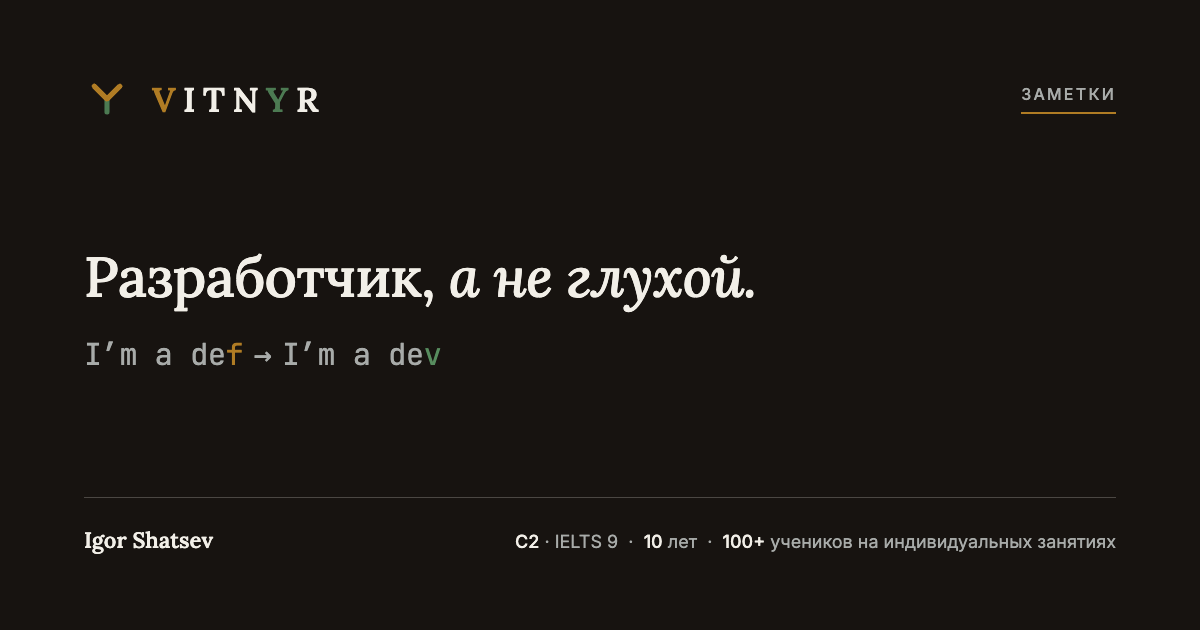
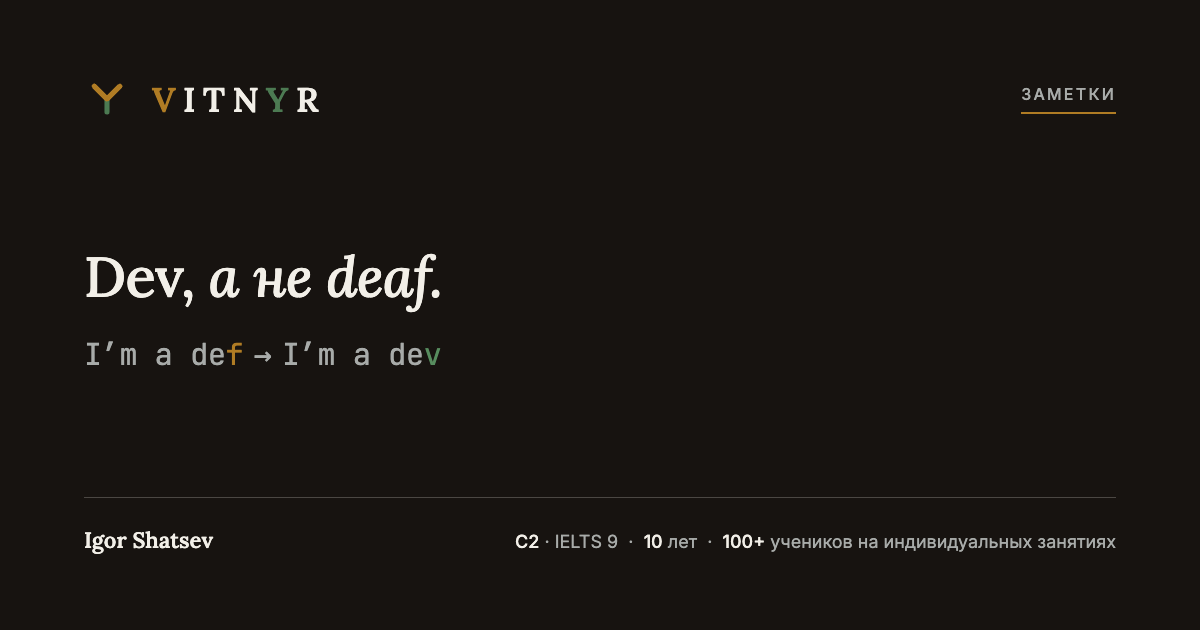
Notes: dev / deaf, rebuilt after the cold review and the copy pass
Devoices, not mutes; RU h1 «Dev, а не deaf.»; the post's «на встрече»
kept; English loans (баг, лог, блог) in the pull rows; no schwa-inviting
'buzz'; NQ19 for Igor.

Changed region(s): [[0.0617, 0.3921, 0.6475, 0.5127]]

diff --git a/notes/dev-deaf/index.html b/notes/dev-deaf/index.html
@@ -7,11 +7,11 @@
      GENERATED by tools/notes/build.py from tools/notes/*.py and the frame of
      english/index.html. Edit those and re-run; edits here are overwritten. -->
 <title data-head-ru="Звонкие согласные на конце слова в английском: dev или deaf — Igor Shatsev">“I’m a dev” or “I’m deaf”? Voiced endings in English — Igor Shatsev</title>
-<meta name="description" content="Russian speakers mute the last sound of a word, so “I’m a dev” comes out as “I’m deaf”. Seven pairs (bag and back, prize and price), why it happens, and sentences to say out loud." data-head-ru="Почему «I’m a dev» звучит как «I’m deaf»: русское оглушение согласных на конце слова. Семь пар (bag и back, prize и price), откуда привычка и фразы, чтобы потренироваться вслух.">
+<meta name="description" content="Russian speakers devoice the last consonant of a word, so “I’m a dev” comes out as “I’m deaf”. Seven pairs (bag and back, prize and price), why it happens, and sentences to say out loud." data-head-ru="Почему «I’m a dev» звучит как «I’m deaf»: русское оглушение согласных на конце слова. Семь пар (bag и back, prize и price), откуда берётся привычка, и фразы для тренировки вслух.">
 <meta name="theme-color" content="#EFEBE3">
 
 <meta property="og:title" content="I’m a dev, not deaf: voiced endings in English — Igor Shatsev">
-<meta property="og:description" content="Russian mutes the last sound of a word; English keeps it. Seven pairs and sentences to say out loud.">
+<meta property="og:description" content="Russian devoices the last consonant of a word; English doesn’t. Seven pairs and sentences to say out loud.">
 <meta property="og:locale" content="en_US">
 <meta property="og:locale:alternate" content="ru_RU">
 <meta property="og:type" content="article">
@@ -23,7 +23,7 @@
 <meta property="og:image:alt" content="I’m a dev, not deaf. A note by Igor Shatsev on voiced endings.">
 <meta name="twitter:card" content="summary_large_image">
 <meta name="twitter:title" content="I’m a dev, not deaf: voiced endings in English — Igor Shatsev">
-<meta name="twitter:description" content="Russian mutes the last sound of a word; English keeps it. Seven pairs and sentences to say out loud.">
+<meta name="twitter:description" content="Russian devoices the last consonant of a word; English doesn’t. Seven pairs and sentences to say out loud.">
 <meta name="twitter:image" content="https://vitnyrcoach.com/assets/share/og-note-dev-deaf.png">
 
 <link rel="alternate" hreflang="en" href="https://vitnyrcoach.com/notes/dev-deaf/">
@@ -40,7 +40,7 @@
       "url": "https://vitnyrcoach.com/notes/dev-deaf/",
       "mainEntityOfPage": "https://vitnyrcoach.com/notes/dev-deaf/",
       "headline": "I’m a dev, not deaf: voiced endings in English",
-      "description": "Russian mutes the last sound of a word; English keeps it. Seven pairs and sentences to say out loud.",
+      "description": "Russian devoices the last consonant of a word; English doesn’t. Seven pairs and sentences to say out loud.",
       "inLanguage": ["en", "ru"],
       "datePublished": "2026-11-24",
       "author": { "@id": "https://vitnyrcoach.com/#igor" },
@@ -182,20 +182,20 @@
       <span class="line"><span class="line__inner"><em>not deaf.</em></span></span>
     </span>
     <span data-l="ru">
-      <span class="line"><span class="line__inner">Разработчик,</span></span>
-      <span class="line"><span class="line__inner"><em>а не глухой.</em></span></span>
+      <span class="line"><span class="line__inner">Dev,</span></span>
+      <span class="line"><span class="line__inner"><em>а не deaf.</em></span></span>
     </span>
   </h1>
   <div class="hero__foot page-hero__foot">
     <div class="page-hero__text">
-      <p class="stand reveal" data-l="en">A client of mine is a developer. When he says “I’m a dev”, it comes out as “I’m deaf”. If native speakers smile on a call, it isn’t always because they’re friendly: maybe you just made them laugh. <strong class="mark">Watch the voiced and voiceless sounds at the ends of words.</strong></p>
-      <p class="stand reveal" data-l="ru">Мой клиент — разработчик. Когда он говорит «I’m a dev», слышится «I’m deaf». Если носители улыбаются на созвоне, это не всегда потому, что они очень дружелюбные: может, вы их просто рассмешили. <strong class="mark">Аккуратнее со звонкими и глухими звуками на конце слов.</strong></p>
+      <p class="stand reveal" data-l="en">A client of mine is a developer. When he says “I’m a dev”, it comes out as “I’m deaf”. If native speakers smile in a meeting, it isn’t always because they’re such friendly people: maybe you just made them laugh. <strong class="mark">Watch the voiced and voiceless sounds at the ends of words.</strong></p>
+      <p class="stand reveal" data-l="ru">Мой клиент — разработчик. Когда он говорит «I’m a dev», слышится «I’m deaf». Если носители улыбаются на встрече, это не всегда потому, что они очень дружелюбные ребята: может, вы их просто рассмешили. <strong class="mark">Аккуратнее со звонкими и глухими звуками на конце слов.</strong></p>
     </div>
     <figure class="note-fig ladder reveal" aria-labelledby="fig-dev-deaf">
       <div class="ladder__row"><span class="ladder__s" lang="en">I’m a de<del class="mark--specimen">f</del>.</span><span class="weights__role" data-en="you say" data-ru="вы говорите">you say</span></div>
       <div class="ladder__row"><span class="ladder__s" lang="ru">Я <em>глухой</em>.</span><span class="weights__role" data-en="they hear" data-ru="носитель слышит">they hear</span></div>
       <div class="ladder__row"><span class="ladder__s" lang="en">I’m a de<ins class="mark--target">v</ins>.</span><span class="weights__role" data-en="say" data-ru="скажите">say</span></div>
-      <figcaption id="fig-dev-deaf"><span data-l="en">Fig. 1. Russian mutes the last sound of a word. English keeps it, and stretches the vowel before it.</span><span data-l="ru">Рис. 1. Русский оглушает последний звук слова. Английский — нет, и гласная перед ним тянется.</span></figcaption>
+      <figcaption id="fig-dev-deaf"><span data-l="en">Fig. 1. One sound, and it’s a different conversation.</span><span data-l="ru">Рис. 1. Один звук — и совсем другой созвон.</span></figcaption>
     </figure>
     <div class="note-meta">
       <p class="note-byline reveal">
@@ -219,8 +219,8 @@
 <section class="sec" id="words">
   <p class="label reveal"><span class="num">01</span><span data-en="The fix" data-ru="Как правильно">The fix</span></p>
   <div class="sec__head">
-    <h2 class="reveal" data-l="en">A voiced ending changes the word.</h2>
-    <h2 class="reveal" data-l="ru">Звонкий конец меняет слово.</h2>
+    <h2 class="reveal" data-l="en">The vowel gives it away.</h2>
+    <h2 class="reveal" data-l="ru">Выдаёт гласная.</h2>
     <div class="sec__lede">
       <p class="reveal" data-l="en">The secret isn’t the last letter. <strong class="mark">Before a voiced consonant the vowel stretches</strong>, and the listener hears it before the <span class="w">v</span> itself.</p>
       <p class="reveal" data-l="ru">Секрет не в последней букве. <strong class="mark">Перед звонким согласным гласная тянется</strong>, и это слышно раньше, чем сам <span class="w">v</span>.</p>
@@ -228,7 +228,7 @@
   </div>
   <table class="register register--pairs reveal">
     <caption class="vh"><span data-l="en">Seven pairs: a voiced ending and a voiceless one</span><span data-l="ru">Семь пар: звонкий конец и глухой</span></caption>
-    <thead><tr><th scope="col"><span class="vh" data-en="Number" data-ru="Номер">Number</span></th><th scope="col" data-en="Voiced: a longer vowel" data-ru="Звонкий: гласная длиннее">Voiced: a longer vowel</th><th scope="col" data-en="Voiceless: a shorter vowel" data-ru="Глухой: гласная короче">Voiceless: a shorter vowel</th></tr></thead>
+    <thead><tr><th scope="col"><span class="vh" data-en="Number" data-ru="Номер">Number</span></th><th scope="col" data-en="Voiced (v d g z)" data-ru="Звонкий (v d g z)">Voiced (v d g z)</th><th scope="col" data-en="Voiceless (f t k s)" data-ru="Глухой (f t k s)">Voiceless (f t k s)</th></tr></thead>
     <tbody>
       <tr><td class="register__n">01</td><th scope="row" class="register__w"><b>dev</b> <span class="pull__ipa" lang="ru">разработчик</span></th><td class="register__w"><b>deaf</b> <span class="pull__ipa" lang="ru">глухой</span></td></tr>
       <tr><td class="register__n">02</td><th scope="row" class="register__w"><b>bad</b> <span class="pull__ipa" lang="ru">плохой</span></th><td class="register__w"><b>bat</b> <span class="pull__ipa" lang="ru">летучая мышь</span></td></tr>
@@ -244,16 +244,16 @@
 <section class="sec" id="why">
   <p class="label reveal"><span class="num">02</span><span data-en="Why it happens" data-ru="Почему так">Why it happens</span></p>
   <div class="sec__head">
-    <h2 class="reveal" data-l="en">Russian mutes the end. English doesn’t.</h2>
-    <h2 class="reveal" data-l="ru">Русский глушит конец. Английский — нет.</h2>
+    <h2 class="reveal" data-l="en">Russian devoices the end of a word. English doesn’t.</h2>
+    <h2 class="reveal" data-l="ru">В русском звонкий на конце оглушается. В английском — нет.</h2>
     <div class="sec__lede">
-      <p class="reveal" data-l="en">In Russian <span class="w">дуб</span> is said [дуп], <span class="w">код</span> [кот], <span class="w">глаз</span> [глас]: a voiced consonant at the end of a word goes voiceless, and nobody notices. <strong class="mark">The habit comes with you into English</strong>, where the last sound can change the word. Words Russian shares with English carry it straight in:</p>
-      <p class="reveal" data-l="ru">По-русски <span class="w">дуб</span> звучит как [дуп], <span class="w">код</span> — [кот], <span class="w">глаз</span> — [глас]: звонкий на конце слова оглушается, и никто этого не замечает. <strong class="mark">Привычка переезжает с вами в английский</strong>, а там от последнего звука зависит слово. Особенно легко она переходит в слова, общие для двух языков:</p>
+      <p class="reveal" data-l="en">In Russian <span class="w">дуб</span> is said [дуп], <span class="w">код</span> [кот], <span class="w">глаз</span> [глас]: a voiced consonant at the end of a word goes voiceless, and you never hear yourself do it. <strong class="mark">The habit comes with you into English</strong>, where the last sound can change the word. Words Russian borrowed from English bring it straight in:</p>
+      <p class="reveal" data-l="ru">По-русски <span class="w">дуб</span> звучит как [дуп], <span class="w">код</span> — [кот], <span class="w">глаз</span> — [глас]: звонкий на конце слова оглушается, и мы этого не замечаем. <strong class="mark">Эта привычка переходит и в английский</strong>, а там от последнего звука может зависеть смысл. Легче всего она проскальзывает в словах, пришедших из английского:</p>
     </div>
   </div>
   <ul class="pull">
-    <li class="pull__row reveal"><span class="pull__from"><span class="pull__ru" lang="ru">код [кот]</span><span class="pull__arrow" aria-hidden="true"><svg aria-hidden="true" viewBox="0 0 26 8"><path d="M0 4h23M19 1l4 3-4 3" fill="none" stroke="currentColor" stroke-width="1"/></svg></span></span><span class="pull__to"><span class="pull__en" lang="en">code</span><span class="pull__ipa">≠ coat</span></span></li>
-    <li class="pull__row reveal"><span class="pull__from"><span class="pull__ru" lang="ru">приз [прис]</span><span class="pull__arrow" aria-hidden="true"><svg aria-hidden="true" viewBox="0 0 26 8"><path d="M0 4h23M19 1l4 3-4 3" fill="none" stroke="currentColor" stroke-width="1"/></svg></span></span><span class="pull__to"><span class="pull__en" lang="en">prize</span><span class="pull__ipa">≠ price</span></span></li>
+    <li class="pull__row reveal"><span class="pull__from"><span class="pull__ru" lang="ru">баг [бак]</span><span class="pull__arrow" aria-hidden="true"><svg aria-hidden="true" viewBox="0 0 26 8"><path d="M0 4h23M19 1l4 3-4 3" fill="none" stroke="currentColor" stroke-width="1"/></svg></span></span><span class="pull__to"><span class="pull__en" lang="en">bug</span><span class="pull__ipa">≠ buck</span></span></li>
+    <li class="pull__row reveal"><span class="pull__from"><span class="pull__ru" lang="ru">лог [лок]</span><span class="pull__arrow" aria-hidden="true"><svg aria-hidden="true" viewBox="0 0 26 8"><path d="M0 4h23M19 1l4 3-4 3" fill="none" stroke="currentColor" stroke-width="1"/></svg></span></span><span class="pull__to"><span class="pull__en" lang="en">log</span><span class="pull__ipa">≠ lock</span></span></li>
     <li class="pull__row reveal"><span class="pull__from"><span class="pull__ru" lang="ru">блог [блок]</span><span class="pull__arrow" aria-hidden="true"><svg aria-hidden="true" viewBox="0 0 26 8"><path d="M0 4h23M19 1l4 3-4 3" fill="none" stroke="currentColor" stroke-width="1"/></svg></span></span><span class="pull__to"><span class="pull__en" lang="en">blog</span><span class="pull__ipa">≠ block</span></span></li>
   </ul>
 </section>
@@ -264,8 +264,8 @@
     <h2 class="reveal" data-l="en">Say it out loud.</h2>
     <h2 class="reveal" data-l="ru">Скажите вслух.</h2>
     <div class="sec__lede">
-      <p class="reveal" data-l="en">Left column: hold the vowel and let the last sound buzz. Right column: keep the vowel short and the end crisp.</p>
-      <p class="reveal" data-l="ru">Левая колонка: тяните гласную, последний звук — со звоном. Правая: гласная короче, конец чёткий.</p>
+      <p class="reveal" data-l="en">Left column: hold the vowel, then close the word softly, with no “uh” after it. Right column: keep the vowel short and the last sound crisp.</p>
+      <p class="reveal" data-l="ru">Левая колонка: тяните гласную и мягко закрывайте слово, без «э» на конце. Правая: гласная короче, последний звук глухой и чёткий.</p>
     </div>
   </div>
   <!-- DRAFT for Igor (SITE-PLAN.md NQ19): these twelve sentences are not from the post. -->
@@ -284,8 +284,8 @@
     <div class="practice-wrap reveal">
       <h3 class="practice__h"><span data-l="en">Voiceless ending</span><span data-l="ru">Глухой конец</span> <span class="practice__rule" data-en="a shorter vowel" data-ru="гласная короче">a shorter vowel</span></h3>
     <ol class="practice">
-      <li><span class="practice__n" aria-hidden="true">i.</span><span class="practice__s" lang="en">He’s <b>deaf</b>.</span></li>
-      <li><span class="practice__n" aria-hidden="true">ii.</span><span class="practice__s" lang="en">My <b>back</b> hurts.</span></li>
+      <li><span class="practice__n" aria-hidden="true">i.</span><span class="practice__s" lang="en">She’s <b>deaf</b> in one ear.</span></li>
+      <li><span class="practice__n" aria-hidden="true">ii.</span><span class="practice__s" lang="en">I hurt my <b>back</b>.</span></li>
       <li><span class="practice__n" aria-hidden="true">iii.</span><span class="practice__s" lang="en">A yellow <b>leaf</b>.</span></li>
       <li><span class="practice__n" aria-hidden="true">iv.</span><span class="practice__s" lang="en">What’s the <b>price</b>?</span></li>
       <li><span class="practice__n" aria-hidden="true">v.</span><span class="practice__s" lang="en">Take your <b>coat</b>.</span></li>
@@ -323,7 +323,7 @@
   <blockquote class="contact__draft" hidden></blockquote>
   <div class="sec__lede">
     <p class="reveal" data-l="en">You can’t hear your own final consonants, because to you they sound right. I can. In the trial lesson we’ll find the endings that go voiceless. <strong class="mark">It’s 30 minutes, free, no strings attached</strong>. If we’re a good fit, we agree on a plan, online or in Yerevan.</p>
-    <p class="reveal" data-l="ru">Свои последние звуки не слышно: вам они кажутся правильными. Мне слышно. На пробном занятии найдём окончания, которые у вас оглушаются. <strong class="mark">Это 30 минут, бесплатно, без обязательств</strong>. Если подойдём друг другу, составим план, онлайн или в Ереване.</p>
+    <p class="reveal" data-l="ru">Свои конечные согласные вы не слышите: вам кажется, что всё правильно. А мне слышно. На пробном занятии найдём, где вы оглушаете согласные на конце слова. <strong class="mark">Это 30 минут, бесплатно, без обязательств</strong>. Если подойдём друг другу, составим план, онлайн или в Ереване.</p>
   </div>
   </div>
   <figure class="contact__portrait reveal">

diff --git a/notes/index.html b/notes/index.html
@@ -216,7 +216,7 @@
         <span class="ledger__meta"><span class="ledger__kind" data-en="Pronunciation" data-ru="Произношение">Pronunciation</span><span class="ledger__count" data-en="dev · 7 pairs" data-ru="dev · 7 пар">dev · 7 pairs</span></span>
         <span class="ledger__main">
           <span class="ledger__spec"><span class="vh" data-en="Incorrect: " data-ru="Неверно: ">Incorrect: </span><span lang="en">I’m a de<del class="mark--specimen">f</del></span> <span class="ledger__to" aria-hidden="true">→</span> <span class="vh" data-en="Correct: " data-ru="Верно: ">Correct: </span><span lang="en">I’m a de<ins class="mark--target">v</ins></span></span>
-          <span class="ledger__title" data-en="I’m a dev, not deaf." data-ru="Разработчик, а не глухой.">I’m a dev, not deaf.</span>
+          <span class="ledger__title" data-en="I’m a dev, not deaf." data-ru="Dev, а не deaf.">I’m a dev, not deaf.</span>
         </span>
         <span class="ledger__arrow" aria-hidden="true"><svg aria-hidden="true" viewBox="0 0 26 8"><path d="M0 4h23M19 1l4 3-4 3" fill="none" stroke="currentColor" stroke-width="1"/></svg></span>
       </a>

diff --git a/notes/noun-verb-stress/index.html b/notes/noun-verb-stress/index.html
@@ -311,7 +311,7 @@
   <a class="note-pager__all" href="/notes/" data-magnetic><svg aria-hidden="true" viewBox="0 0 26 8"><path d="M26 4H3M7 1L3 4l4 3" fill="none" stroke="currentColor" stroke-width="1"/></svg><span data-en="All notes" data-ru="Все заметки">All notes</span></a>
   <a class="note-pager__next" href="/notes/dev-deaf/" data-magnetic>
     <span class="note-pager__k" data-en="Newest note" data-ru="Самая новая заметка">Newest note</span>
-    <span class="note-pager__t"><span data-en="I’m a dev, not deaf" data-ru="Разработчик, а не глухой">I’m a dev, not deaf</span><svg aria-hidden="true" viewBox="0 0 26 8"><path d="M0 4h23M19 1l4 3-4 3" fill="none" stroke="currentColor" stroke-width="1"/></svg></span>
+    <span class="note-pager__t"><span data-en="I’m a dev, not deaf" data-ru="Dev, а не deaf">I’m a dev, not deaf</span><svg aria-hidden="true" viewBox="0 0 26 8"><path d="M0 4h23M19 1l4 3-4 3" fill="none" stroke="currentColor" stroke-width="1"/></svg></span>
   </a>
 </nav>
 

diff --git a/assets/share/share-card.html b/assets/share/share-card.html
@@ -146,7 +146,7 @@
     <!-- notes:cards (tools/notes/build.py) -->
     <div data-page="note-dev-deaf">
       <p class="headline" data-l="en">I’m a dev, <em>not deaf.</em></p>
-      <p class="headline" data-l="ru">Разработчик, <em>а не глухой.</em></p>
+      <p class="headline" data-l="ru">Dev, <em>а не deaf.</em></p>
       <p class="spec">I’m a de<span class="x">f</span><span class="to">→</span>I’m a de<span class="ok">v</span></p>
     </div>
     <div data-page="note-manage">

diff --git a/tools/notes/dev_deaf.py b/tools/notes/dev_deaf.py
@@ -11,7 +11,7 @@ written for the note is marked DRAFT below.
 
 Planned before building (reference/linkedin-posts/REVIEW.md): serial's
 ladder as the hero; the pairs as the table; the why is devoicing, with
-Russian cognates that carry it into English; practice is two columns to
+Russian loans from English (баг, лог, блог) that carry it straight in; practice is two columns to
 say out loud, as on the stress note.
 """
 from lib import head2, ladder, practice_pair, pull, register, section
@@ -40,8 +40,8 @@ VOICED = [
     "I read your <b>blog</b>.",
 ]
 VOICELESS = [
-    "He’s <b>deaf</b>.",
-    "My <b>back</b> hurts.",
+    "She’s <b>deaf</b> in one ear.",
+    "I hurt my <b>back</b>.",
     "A yellow <b>leaf</b>.",
     "What’s the <b>price</b>?",
     "Take your <b>coat</b>.",
@@ -53,8 +53,9 @@ FIGURE = ladder([
     # Slide 08-reply: what the other side of the call hears.
     ("Я <em>глухой</em>.", "ru", "they hear", "носитель слышит"),
     (f"I’m a de{I('v')}.", "en", "say", "скажите"),
-], "Fig. 1. Russian mutes the last sound of a word. English keeps it, and stretches the vowel before it.",
-   "Рис. 1. Русский оглушает последний звук слова. Английский — нет, и гласная перед ним тянется.", "fig-dev-deaf")
+], "Fig. 1. One sound, and it’s a different conversation.",
+   # Slide 08-reply's line: «Один звук. Совсем другой созвон.»
+   "Рис. 1. Один звук — и совсем другой созвон.", "fig-dev-deaf")
 
 
 def cell(word, ru):
@@ -66,29 +67,29 @@ def cell(word, ru):
 def body(note):
     words = section("words", "\n".join([
         # From slide 03-length.
-        head2("A voiced ending changes the word.", "Звонкий конец меняет слово.",
+        head2("The vowel gives it away.", "Выдаёт гласная.",
               "The secret isn’t the last letter. [[Before a voiced consonant the vowel stretches]], and the listener hears it before the {{v}} itself.",
               "Секрет не в последней букве. [[Перед звонким согласным гласная тянется]], и это слышно раньше, чем сам {{v}}."),
         register("Seven pairs: a voiced ending and a voiceless one", "Семь пар: звонкий конец и глухой",
-                 [("Voiced: a longer vowel", "Звонкий: гласная длиннее"), ("Voiceless: a shorter vowel", "Глухой: гласная короче")],
+                 [("Voiced (v d g z)", "Звонкий (v d g z)"), ("Voiceless (f t k s)", "Глухой (f t k s)")],
                  [[cell(f"<b>{a}</b>", b), ("register__w", cell(f"<b>{c}</b>", d))]
                   for a, b, c, d in PAIRS], cls=" register--pairs"),
     ]))
     why = section("why", "\n".join([
-        # From slide 06-dub; the cognate rows are DRAFT.
-        head2("Russian mutes the end. English doesn’t.", "Русский глушит конец. Английский — нет.",
-              "In Russian {{дуб}} is said [дуп], {{код}} [кот], {{глаз}} [глас]: a voiced consonant at the end of a word goes voiceless, and nobody notices. [[The habit comes with you into English]], where the last sound can change the word. Words Russian shares with English carry it straight in:",
-              "По-русски {{дуб}} звучит как [дуп], {{код}} — [кот], {{глаз}} — [глас]: звонкий на конце слова оглушается, и никто этого не замечает. [[Привычка переезжает с вами в английский]], а там от последнего звука зависит слово. Особенно легко она переходит в слова, общие для двух языков:"),
+        # From slide 06-dub; the loanword rows are DRAFT (cold review: код and приз came from French).
+        head2("Russian devoices the end of a word. English doesn’t.", "В русском звонкий на конце оглушается. В английском — нет.",
+              "In Russian {{дуб}} is said [дуп], {{код}} [кот], {{глаз}} [глас]: a voiced consonant at the end of a word goes voiceless, and you never hear yourself do it. [[The habit comes with you into English]], where the last sound can change the word. Words Russian borrowed from English bring it straight in:",
+              "По-русски {{дуб}} звучит как [дуп], {{код}} — [кот], {{глаз}} — [глас]: звонкий на конце слова оглушается, и мы этого не замечаем. [[Эта привычка переходит и в английский]], а там от последнего звука может зависеть смысл. Легче всего она проскальзывает в словах, пришедших из английского:"),
         pull([
-            ("код [кот]", "code", "≠ coat"),
-            ("приз [прис]", "prize", "≠ price"),
+            ("баг [бак]", "bug", "≠ buck"),
+            ("лог [лок]", "log", "≠ lock"),
             ("блог [блок]", "blog", "≠ block"),
         ]),
     ]))
     say = section("practice", "\n".join([
         head2("Say it out loud.", "Скажите вслух.",
-              "Left column: hold the vowel and let the last sound buzz. Right column: keep the vowel short and the end crisp.",
-              "Левая колонка: тяните гласную, последний звук — со звоном. Правая: гласная короче, конец чёткий."),
+              "Left column: hold the vowel, then close the word softly, with no “uh” after it. Right column: keep the vowel short and the last sound crisp.",
+              "Левая колонка: тяните гласную и мягко закрывайте слово, без «э» на конце. Правая: гласная короче, последний звук глухой и чёткий."),
         "  <!-- DRAFT for Igor (SITE-PLAN.md NQ19): these twelve sentences are not from the post. -->",
         practice_pair(("Voiced ending", "Звонкий конец", "a longer vowel", "гласная длиннее", VOICED),
                       ("Voiceless ending", "Глухой конец", "a shorter vowel", "гласная короче", VOICELESS)),
@@ -105,27 +106,27 @@ NOTE = dict(
     from_linkedin=True,
     kind_en="Pronunciation", kind_ru="Произношение",
     count_en="dev · 7 pairs", count_ru="dev · 7 пар",
-    title_en="I’m a dev, not deaf.", title_ru="Разработчик, а не глухой.",
-    short_en="I’m a dev, not deaf", short_ru="Разработчик, а не глухой",
+    title_en="I’m a dev, not deaf.", title_ru="Dev, а не deaf.",
+    short_en="I’m a dev, not deaf", short_ru="Dev, а не deaf",
     ledger_spec=f'I’m a de{D("f")} <span class="ledger__to" aria-hidden="true">→</span> I’m a de{I("v")}',
-    card_en="I’m a dev, <em>not deaf.</em>", card_ru="Разработчик, <em>а не глухой.</em>",
+    card_en="I’m a dev, <em>not deaf.</em>", card_ru="Dev, <em>а не deaf.</em>",
     card_spec='I’m a de<span class="x">f</span><span class="to">→</span>I’m a de<span class="ok">v</span>',
-    h1_en=["I’m a dev,", "not deaf."], h1_ru=["Разработчик,", "а не глухой."],
+    h1_en=["I’m a dev,", "not deaf."], h1_ru=["Dev,", "а не deaf."],
     # The post, lightly cleaned. The English is a DRAFT.
-    stand_en="A client of mine is a developer. When he says “I’m a dev”, it comes out as “I’m deaf”. If native speakers smile on a call, it isn’t always because they’re friendly: maybe you just made them laugh. [[Watch the voiced and voiceless sounds at the ends of words.]]",
-    stand_ru="Мой клиент — разработчик. Когда он говорит «I’m a dev», слышится «I’m deaf». Если носители улыбаются на созвоне, это не всегда потому, что они очень дружелюбные: может, вы их просто рассмешили. [[Аккуратнее со звонкими и глухими звуками на конце слов.]]",
+    stand_en="A client of mine is a developer. When he says “I’m a dev”, it comes out as “I’m deaf”. If native speakers smile in a meeting, it isn’t always because they’re such friendly people: maybe you just made them laugh. [[Watch the voiced and voiceless sounds at the ends of words.]]",
+    stand_ru="Мой клиент — разработчик. Когда он говорит «I’m a dev», слышится «I’m deaf». Если носители улыбаются на встрече, это не всегда потому, что они очень дружелюбные ребята: может, вы их просто рассмешили. [[Аккуратнее со звонкими и глухими звуками на конце слов.]]",
     figure=FIGURE,
     comment="/notes/dev-deaf/: Igor's LinkedIn post on dev and deaf, with the slides he made for it, set as a note. The Russian is his post, lightly cleaned; the English is a translation, a draft for Igor to confirm.",
     title="“I’m a dev” or “I’m deaf”? Voiced endings in English — Igor Shatsev",
     title_ru_head="Звонкие согласные на конце слова в английском: dev или deaf — Igor Shatsev",
-    desc_en="Russian speakers mute the last sound of a word, so “I’m a dev” comes out as “I’m deaf”. Seven pairs (bag and back, prize and price), why it happens, and sentences to say out loud.",
-    desc_ru="Почему «I’m a dev» звучит как «I’m deaf»: русское оглушение согласных на конце слова. Семь пар (bag и back, prize и price), откуда привычка и фразы, чтобы потренироваться вслух.",
+    desc_en="Russian speakers devoice the last consonant of a word, so “I’m a dev” comes out as “I’m deaf”. Seven pairs (bag and back, prize and price), why it happens, and sentences to say out loud.",
+    desc_ru="Почему «I’m a dev» звучит как «I’m deaf»: русское оглушение согласных на конце слова. Семь пар (bag и back, prize и price), откуда берётся привычка, и фразы для тренировки вслух.",
     og_title="I’m a dev, not deaf: voiced endings in English — Igor Shatsev",
-    og_desc="Russian mutes the last sound of a word; English keeps it. Seven pairs and sentences to say out loud.",
+    og_desc="Russian devoices the last consonant of a word; English doesn’t. Seven pairs and sentences to say out loud.",
     og_alt="I’m a dev, not deaf. A note by Igor Shatsev on voiced endings.",
     ld_headline="I’m a dev, not deaf: voiced endings in English",
     contact_lede_en="You can’t hear your own final consonants, because to you they sound right. I can. In the trial lesson we’ll find the endings that go voiceless. [[It’s 30 minutes, free, no strings attached]]. If we’re a good fit, we agree on a plan, online or in Yerevan.",
-    contact_lede_ru="Свои последние звуки не слышно: вам они кажутся правильными. Мне слышно. На пробном занятии найдём окончания, которые у вас оглушаются. [[Это 30 минут, бесплатно, без обязательств]]. Если подойдём друг другу, составим план, онлайн или в Ереване.",
+    contact_lede_ru="Свои конечные согласные вы не слышите: вам кажется, что всё правильно. А мне слышно. На пробном занятии найдём, где вы оглушаете согласные на конце слова. [[Это 30 минут, бесплатно, без обязательств]]. Если подойдём друг другу, составим план, онлайн или в Ереване.",
     tg_en="Hi! I came from your note about “dev” and “deaf”. I'd like to book a free trial English lesson.",
     tg_ru="Здравствуйте! Я с вашей заметки про «dev» и «deaf». Хочу записаться на бесплатное занятие по английскому.",
     body=body,

diff --git a/SITE-PLAN.md b/SITE-PLAN.md
@@ -186,10 +186,11 @@ linked from its specimen. Igor's LinkedIn posts about English are the raw
 material; nothing is published without his approval. Start with the three
 specimens on the English page.
 
-**Status (2026-11-28):** nine notes. The newest, manage
-(`feature/note-manage`, waiting for Igor's review), is a vocabulary note
-from his post of 1 October (manage to, not could). Before it, weigh, a
-grammar note from his one English-language post. Before it: API key (pronunciation), serial
+**Status (2026-11-28):** ten notes. The newest, dev / deaf
+(`feature/note-dev-deaf`, waiting for Igor's review), is a pronunciation
+note from his post of 24 November and the slides he made for it. Before
+it, manage (vocabulary: manage to, not could). The posts not yet built
+are in `reference/linkedin-posts/BACKLOG.md`. Before it: API key (pronunciation), serial
 and actual (vocabulary). The eight LinkedIn posts read on 2026-11-28 are in
 `reference/linkedin-posts/` with `REVIEW.md`; of those left, install is
 thin (fold into a stress note), dev/deaf needs Igor's word list, redact is
@@ -254,6 +255,7 @@ until you do.
 | NQ16 | The weigh note (`tools/notes/weigh.py`): the post is in English, so approve the Russian translation; also the table rows beyond the post's two, the weighted-average row and footnote, the "why" (weight comes from weigh; the email/text rows) and the test sentences. All marked DRAFT. | H4 |
 | NQ17 | The notes copy pass (2026-11-28, `reference/notes-copy-review.md`): approve the rewritten Russian lines (feel, could-you, api-key, weigh, stress), the new footnotes (serial in British English, feel myself, weight as a verb, au exceptions), conSOLE swapped for REcord/reCORD (closes Q7), and the eight new contact openers. The five shared footer/byline lines (section E) were fixed on `feature/shared-copy-fixes`. | H4 |
 | NQ18 | The manage note (`tools/notes/manage.py`, `feature/note-manage`): approve the English translation of the post; the specimen (the post names the gap, the note names *could* as what fills it); the four table rows not in the post (еле успел, как вы справляетесь, сможете в пятницу, не удалось дозвониться); the why (мог is could, смог is managed to); and the five test sentences beyond your slide 2. Slide 2 promised answers in the first comment that were never posted; the test now carries them. All marked DRAFT. | H4 |
+| NQ19 | The dev / deaf note (`tools/notes/dev_deaf.py`, `feature/note-dev-deaf`): it uses three of the ten slides you made for the post and didn't publish (`~/Downloads/dev-deaf-10-images/`: the pairs, the vowel-length rule, дуб [дуп]); is that fine? Also approve the English translation, "I'm a dev" with the article, the code / coat pair, the баг / лог / блог rows, the Russian h1 «Dev, а не deaf.» and the twelve practice sentences. All marked DRAFT. | H4 |
 | NQ10 | The English page calls the Russian in "I feel myself" a "reflexive ending built into the verb", but чувствую себя uses a separate word (себя). Change it to "reflexive word", as the note says? | H4 |
 
 ---

diff --git a/BUILD-NOTES.md b/BUILD-NOTES.md
@@ -6920,3 +6920,33 @@ Planned in `REVIEW.md`, built, reviewed cold, rebuilt. No CSS or JS change.
   console errors; the test driven in EN and RU (7/8, «мне удалось», the
   Telegram message names the note); `tests/test_notes.py` 178 passed. The
   full suite was not run.
+
+## Note: dev / deaf (2026-11-28, `feature/note-dev-deaf`)
+
+The tenth note, from Igor's post of 24 November. The post is short; the
+rest comes from ten slides he made for it and didn't post
+(`~/Downloads/dev-deaf-10-images/`): the pairs list, the vowel-length rule
+and Russian devoicing (дуб [дуп]). Their use is NQ19. Planned in
+`REVIEW.md`, built, cold-reviewed, rebuilt, then the humanizer and Russian
+checklist pass. No CSS or JS change.
+
+- **Pronunciation.** Headline "I'm a dev, / not deaf." / «Dev, / а не
+  deaf.» Hero: serial's ladder (you say I'm a de~~f~~, they hear «Я
+  глухой», say I'm a dev); caption from slide 08 («Один звук — и совсем
+  другой созвон»).
+- **01:** "The vowel gives it away", the slide's six pairs plus code /
+  coat, with Russian meanings as on the slide; neither word of a pair takes
+  the mistake's ink, since both are real words. **02:** Russian devoicing,
+  then loans from English that carry it in: баг / bug ≠ buck, лог / log ≠
+  lock, блог / blog ≠ block. **03:** two columns to say out loud
+  (`practice_pair`).
+- **Cold review fixes:** "mutes the last sound" was wrong (Russian
+  devoices a final voiced consonant) and said five times; «глушит конец»
+  invited a smirk; the RU h1 «Разработчик, а не глухой» lost the pun and
+  read as a remark on deafness; "let the last sound buzz" invites a schwa
+  ("bag-uh"); код and приз came from French, so the pull rows are now
+  English loans; the standfirst kept the post's «на встрече» and
+  «дружелюбные ребята»; "He's deaf" became "She's deaf in one ear"; the
+  RU contact lede was ungrammatical; the vowel rule was said five times.
+- **Checked:** both themes and languages at 375 and 1280, no overflow, no
+  console errors; `tests/test_notes.py` 194 passed. Full suite not run.

diff --git a/reference/notes-copy-review.md b/reference/notes-copy-review.md
@@ -104,3 +104,13 @@ Checked and kept: "Мог is could. Смог isn't." (a headline, where "X, not 
 stays), the pull rows' asides, the practice lede, the contact lede (no
 stock opener), the curly quotes (house style), the Russian dashes (Russian
 typography).
+
+## The dev / deaf note (2026-11-28, `feature/note-dev-deaf`)
+
+Cold review by an outside bilingual editor first (all ten points applied;
+`BUILD-NOTES.md`), then the humanizer checklist and the Russian checklist.
+The second pass found little left: "and nobody notices" overclaimed (now
+"you never hear yourself do it" / «и мы этого не замечаем»), and «от
+последнего звука зависит слово» was stiff (now «может зависеть смысл»).
+Kept: "The secret isn't the last letter" (Igor's slide 03, not a
+"deeper truth" opener), the long X / Y 02 heading (headline), curly quotes.
